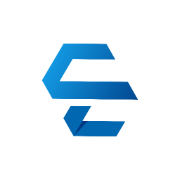
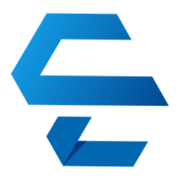
Update assets and improve author image handling
- Updated apple-icon.png and favicon.ico with new versions.
- Changed logo URL in feed.xml to use logo-500.svg.
- Replaced icon.svg with a new SVG version with updated dimensions and styles.
- Updated author avatar URL in post page to use a new webp format image.
- Adjusted logo URL in structured data for publisher in post page.
- Enhanced author avatar image rendering with fixed dimensions in post page.
- Updated footer and navbar components to use logo-500.svg instead of logo.svg.

diff --git a/src/app/posts/[slug]/page.tsx b/src/app/posts/[slug]/page.tsx
@@ -102,14 +102,14 @@ export default async function PostPage({ params }: Props) {
       '@type': 'Person',
       name: post.author?.name || 'Husni Kusuma',
       url: SITE_URL,
-      image: post.author?.avatar_url || 'https://cdn.envoyou.com/admin/avatarHusniKusuma.jpeg',
+      image: post.author?.avatar_url || 'https://cdn.envoyou.com/admin/husniKusumaEnvoyou.webp',
       description: 'Self-taught Fullstack Developer & Data Analyst enthusiast. Founder of Envoyou.',
     },
     publisher: {
       '@type': 'Organization',
       name: 'Envoyou',
       url: SITE_URL,
-      logo: { '@type': 'ImageObject', url: `${SITE_URL}/brand/logo.svg` },
+      logo: { '@type': 'ImageObject', url: `${SITE_URL}/brand/logo-500.svg` },
     },
     keywords: post.tags?.map(t => t.name).join(', ') || '',
     articleSection: post.categories?.[0]?.name || '',
@@ -153,7 +153,14 @@ export default async function PostPage({ params }: Props) {
             <div className="flex flex-wrap items-center justify-center gap-6 text-sm text-slate-500 dark:text-slate-400">
               <Link href={`/author/${post.author?.slug || post.author_id}`} className="flex items-center gap-2 hover:opacity-80 transition-opacity">
                 {post.author?.avatar_url ? (
-                  <Image src={post.author.avatar_url} alt={post.author.name} width={32} height={32} className="rounded-full object-cover" />
+                  <Image 
+                    src={post.author.avatar_url} 
+                    alt={post.author.name} 
+                    width={32} 
+                    height={32} 
+                    className="rounded-full object-cover w-8 h-8"
+                    style={{ width: '32px', height: '32px' }}
+                  />
                 ) : (
                   <div className="w-8 h-8 rounded-full bg-slate-200 dark:bg-slate-700 flex items-center justify-center text-slate-500 font-bold">
                     {post.author?.name?.charAt(0) || 'A'}

diff --git a/src/components/layout/Navbar.tsx b/src/components/layout/Navbar.tsx
@@ -35,7 +35,7 @@ export default function Navbar() {
       <div className="container mx-auto px-4 h-16 flex items-center justify-between">
         <Link href="/" className="flex items-center gap-2 transition-transform hover:scale-105">
           <Image
-            src="/brand/logo.svg"
+            src="/brand/logo-500.svg"
             alt="Envoyou Logo"
             width={36}
             height={36}

diff --git a/src/components/layout/Footer.tsx b/src/components/layout/Footer.tsx
@@ -37,7 +37,7 @@ export default function Footer() {
           <div className="flex flex-col gap-4">
             <Link href="/" className="flex items-center gap-2.5 w-fit group">
               <Image
-                src="/brand/logo.svg"
+                src="/brand/logo-500.svg"
                 alt="Envoyou Logo"
                 width={32}
                 height={32}

diff --git a/src/app/feed.xml/route.ts b/src/app/feed.xml/route.ts
@@ -60,7 +60,7 @@ export async function GET() {
     <lastBuildDate>${lastBuildDate}</lastBuildDate>
     <atom:link href="${FEED_URL}" rel="self" type="application/rss+xml" />
     <image>
-      <url>${SITE_URL}/brand/logo.svg</url>
+      <url>${SITE_URL}/brand/logo-500.svg</url>
       <title>Envoyou</title>
       <link>${SITE_URL}</link>
     </image>
